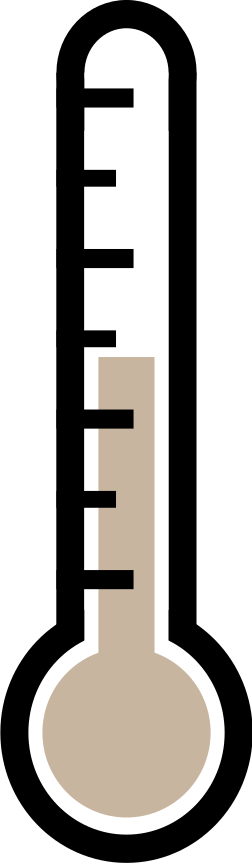
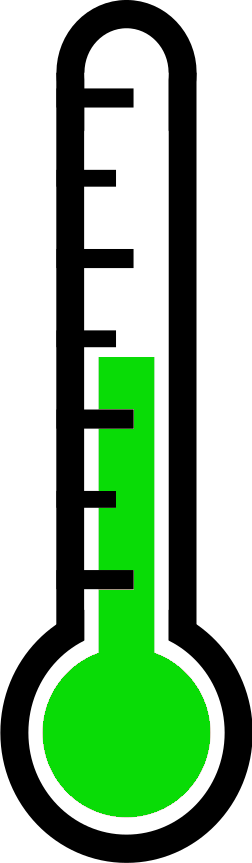
🔨Remake of the GameOver screen + change the color of the normal state of the thermometer

Changed region(s): [[0.1667, 0.3917, 0.8333, 0.9641]]

diff --git a/resources/js/components/gameOver.vue b/resources/js/components/gameOver.vue
@@ -26,64 +26,44 @@ h1 {
     justify-content: center;
     align-items: center;
     min-height: 100vh;
-    background: linear-gradient(135deg, #f5f5f5 0%, #e8e8e8 100%);
+    background: #f8f9fa;
 }
 
 .game-over-content {
     text-align: center;
-    padding: 50px 60px;
+    padding: 60px 80px;
     background: white;
-    border-radius: 20px;
-    border: 2px solid #e0e0e0;
-    box-shadow: 0 10px 40px rgba(0, 0, 0, 0.1);
-    animation: fadeIn 0.5s ease-in;
-}
-
-@keyframes fadeIn {
-    from {
-        opacity: 0;
-        transform: scale(0.9);
-    }
-    to {
-        opacity: 1;
-        transform: scale(1);
-    }
+    border-radius: 8px;
+    border: 1px solid #ddd;
+    box-shadow: 0 2px 10px rgba(0, 0, 0, 0.08);
 }
 
 .chaos-message {
-    font-size: 24px;
-    color: #333;
-    margin: 20px 0;
-    font-weight: 600;
+    font-size: 22px;
+    color: #2c3e50;
+    margin: 25px 0;
+    font-weight: 500;
 }
 
 .subtitle {
-    font-size: 16px;
-    color: #666;
-    margin-bottom: 30px;
-    font-style: italic;
+    font-size: 15px;
+    color: #7f8c8d;
+    margin-bottom: 35px;
 }
 
 .restart-btn {
-    padding: 15px 40px;
-    font-size: 18px;
-    font-weight: bold;
+    padding: 12px 32px;
+    font-size: 16px;
+    font-weight: 600;
     color: white;
-    background: linear-gradient(135deg, #ff3300 0%, #ff6600 100%);
+    background: #ff3300;
     border: none;
-    border-radius: 10px;
+    border-radius: 6px;
     cursor: pointer;
-    transition: all 0.3s ease;
-    box-shadow: 0 5px 15px rgba(255, 51, 0, 0.2);
+    transition: background 0.2s;
 }
 
 .restart-btn:hover {
-    transform: translateY(-2px);
-    box-shadow: 0 8px 20px rgba(255, 51, 0, 0.4);
-    background: linear-gradient(135deg, #ff4400 0%, #ff7700 100%);
-}
-
-.restart-btn:active {
-    transform: translateY(0);
+    background: #e62e00;
 }
 </style>

diff --git a/resources/js/components/hud.vue b/resources/js/components/hud.vue
@@ -1,11 +1,11 @@
 <template>
     <div class="text-center mt-3">
         <h1>Chaos level : {{ chaosStore.chaosLevel }}%</h1>
-        <!-- debug :
+        debug :
         <button class="me-2" @click="chaosStore.addChaos(5)">Ajouter Chaos (+5%)</button>
         <button class="ms-2" @click="chaosStore.reduceChaos(5)">
             Retirer Chaos (-5%)
-        </button> -->
+        </button>
     </div>
 </template>
 

diff --git a/vite.config.js b/vite.config.js
@@ -5,7 +5,7 @@ import vue from '@vitejs/plugin-vue'
 export default defineConfig({
     plugins: [
         laravel({
-            input: ['resources/css/app.css', 'resources/js/app.js'],
+            input: ['resources/js/app.js'],
             refresh: true,
         }),
         vue(),

diff --git a/resources/views/app.blade.php b/resources/views/app.blade.php
@@ -5,12 +5,7 @@
     <meta charset="utf-8">
     <meta name="viewport" content="width=device-width, initial-scale=1">
     <title>Chaos Simulator</title>
-    @vite(['resources/css/app.css', 'resources/js/app.js'])
-    <style>
-        body {
-            background: linear-gradient(135deg, #f5f5f5 0%, #e8e8e8 100%);
-        }
-    </style>
+    @vite(['resources/js/app.js'])
 </head>
 
 <body>
